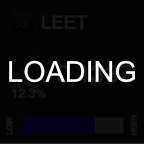
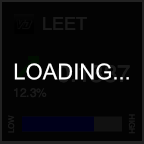
Fixed images size

Changed region(s): [[0.0556, 0.4167, 0.9444, 0.5833], [0.0, 0.0, 1.0, 1.0]]

diff --git a/Crypto/actions/watcher/services/ImageService.cs b/Crypto/actions/watcher/services/ImageService.cs
@@ -20,7 +20,7 @@ namespace Crypto.actions.watcher.services
 
         public async Task<string> GetImage()
         {
-            var info = new SKImageInfo(140, 140, SKColorType.Rgba8888, SKAlphaType.Premul);
+            var info = new SKImageInfo(144, 144, SKColorType.Rgba8888, SKAlphaType.Premul);
             var surface = SKSurface.Create(info);
             var canvas = surface.Canvas;
 
@@ -65,7 +65,7 @@ namespace Crypto.actions.watcher.services
                     memStream.Seek(0, SeekOrigin.Begin);
 
                     var icon = SKBitmap.Decode(memStream);
-                    canvas.DrawBitmap(icon, new SKRect(12, 12, 32, 32));
+                    canvas.DrawBitmap(icon, new SKRect(14, 14, 34, 34));
                 };
             }
             catch
@@ -77,8 +77,8 @@ namespace Crypto.actions.watcher.services
         {
             canvas.DrawText(
                 this.Coin.Symbol.ToUpper(),
-                40,
-                28,
+                42,
+                30,
                 new SKPaint
                 {
                     IsAntialias = true,
@@ -102,22 +102,22 @@ namespace Crypto.actions.watcher.services
             
             canvas.DrawText(
                             val.ToString(format),
-                            55,
-                            80,
+                            52,
+                            82,
                             new SKPaint
                             {
                                 IsAntialias = true,
                                 Style = SKPaintStyle.Fill,
                                 Color = SKColors.White,
-                                TextSize = 24
+                                TextSize = 25
                             });
         }
 
         private void drawPositiveArrow(SKCanvas canvas)
         {
             canvas.DrawLine(
-                            new SKPoint(16, 75),
-                            new SKPoint(36, 55),
+                            new SKPoint(17, 79),
+                            new SKPoint(37, 59),
                             new SKPaint
                             {
                                 IsAntialias = true,
@@ -127,8 +127,8 @@ namespace Crypto.actions.watcher.services
                             });
 
             canvas.DrawLine(
-                new SKPoint(26, 56),
-                new SKPoint(37, 56),
+                new SKPoint(27, 60),
+                new SKPoint(38, 60),
                 new SKPaint
                 {
                     IsAntialias = true,
@@ -138,8 +138,8 @@ namespace Crypto.actions.watcher.services
                 });
 
             canvas.DrawLine(
-                new SKPoint(35, 55),
-                new SKPoint(35, 65),
+                new SKPoint(36, 59),
+                new SKPoint(36, 69),
                 new SKPaint
                 {
                     IsAntialias = true,
@@ -152,8 +152,8 @@ namespace Crypto.actions.watcher.services
         private void drawNegativeArrow(SKCanvas canvas)
         {
             canvas.DrawLine(
-                            new SKPoint(16, 55),
-                            new SKPoint(36, 75),
+                            new SKPoint(17, 59),
+                            new SKPoint(37, 79),
                             new SKPaint
                             {
                                 IsAntialias = true,
@@ -163,8 +163,8 @@ namespace Crypto.actions.watcher.services
                             });
 
             canvas.DrawLine(
-                new SKPoint(26, 74),
-                new SKPoint(37, 74),
+                new SKPoint(27, 78),
+                new SKPoint(38, 78),
                 new SKPaint
                 {
                     IsAntialias = true,
@@ -174,8 +174,8 @@ namespace Crypto.actions.watcher.services
                 });
 
             canvas.DrawLine(
-                new SKPoint(35, 65),
-                new SKPoint(35, 75),
+                new SKPoint(36, 69),
+                new SKPoint(36, 79),
                 new SKPaint
                 {
                     IsAntialias = true,
@@ -189,7 +189,7 @@ namespace Crypto.actions.watcher.services
         {
             canvas.DrawText(
                            this.Coin.MarketData.PriceChangePercentage24H.ToString("##0.0")+"%",
-                           28,
+                           29,
                            95,
                            new SKPaint
                            {
@@ -204,8 +204,8 @@ namespace Crypto.actions.watcher.services
         private void drawCandle(SKCanvas canvas)
         {
             canvas.DrawLine(
-                new SKPoint(20, 122),
-                new SKPoint(120, 122),
+                new SKPoint(22, 124),
+                new SKPoint(122, 124),
                 new SKPaint
                 {
                     IsAntialias = true,
@@ -219,8 +219,8 @@ namespace Crypto.actions.watcher.services
             var val = 100 / range * current;
 
             canvas.DrawLine(
-                new SKPoint(20, 122),
-                new SKPoint(Convert.ToSingle(val) + 20, 122),
+                new SKPoint(22, 124),
+                new SKPoint(Convert.ToSingle(val) + 22, 124),
                 new SKPaint
                 {
                     IsAntialias = true,
@@ -235,8 +235,8 @@ namespace Crypto.actions.watcher.services
 
             canvas.DrawText(
               "LOW",
-              31,
-              12,
+              29,
+              16,
               new SKPaint
               {
                   IsAntialias = true,
@@ -252,8 +252,8 @@ namespace Crypto.actions.watcher.services
 
             canvas.DrawText(
               "HIGH",
-              132,
-              17,
+              134,
+              16,
               new SKPaint
               {
                   IsAntialias = true,
